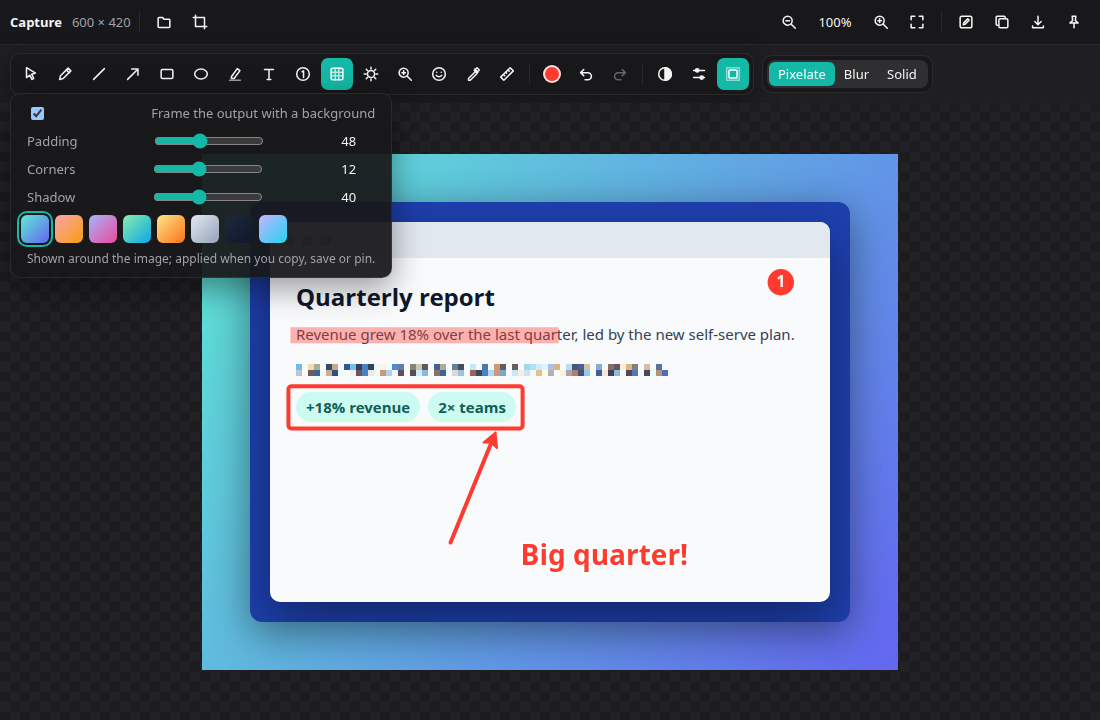
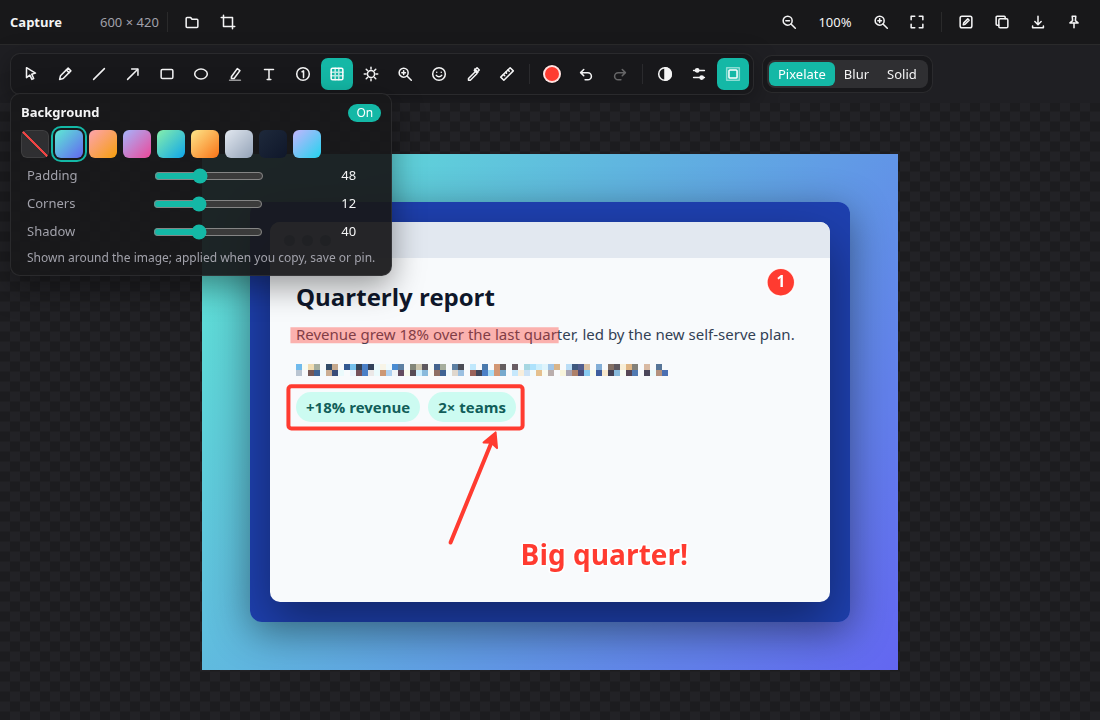
Screenshots: Beautify on and off, colour picker toast, narrowest editor

Changed region(s): [[0.0, 0.1222, 0.34, 0.3972], [0.0618, 0.0, 0.2164, 0.0611]]

diff --git a/tests/e2e/screenshots.spec.ts b/tests/e2e/screenshots.spec.ts
@@ -359,3 +359,82 @@ test('update window screenshot', async () => {
     await verifyAndClose(ctx);
   }
 });
+
+test('beautify, colour picker toast and narrow editor screenshots', async () => {
+  const ctx = await launch();
+  try {
+    await ctx.app.evaluate(
+      async (_e, dir) => {
+        await globalThis.__anyshot?.patch({
+          capture: { showThumbnail: false },
+          output: { saveDir: dir },
+        });
+      },
+      join(ctx.userData, 'shots'),
+    );
+    await showFixture(ctx.app);
+    await dispatch(ctx.app, 'captureArea');
+    const overlay = await pageOf(ctx.app, 'overlay');
+    await expect
+      .poll(() =>
+        ctx.app.evaluate(() =>
+          globalThis.__anyshot?.windows().some((w) => w.kind === 'overlay' && w.visible),
+        ),
+      )
+      .toBe(true);
+    await overlay.mouse.move(520, 120);
+    await overlay.mouse.down();
+    await overlay.mouse.move(1080, 500, { steps: 6 });
+    await overlay.mouse.up();
+    await pressClosing(overlay, 'Control+s');
+    await expect.poll(() => windowKinds(ctx.app)).toEqual([]);
+
+    // Edited from history, so the header has Replace and Done too: its widest form.
+    await dispatch(ctx.app, 'history');
+    const history = await pageOf(ctx.app, 'history');
+    const card = history.getByTestId('history-card').first();
+    await card.hover();
+    await card.getByRole('button', { name: 'Open in editor' }).click();
+    const editor = await pageOf(ctx.app, 'editor');
+    await pressClosing(history, 'Escape');
+    const resize = (width: number, height: number) =>
+      ctx.app.evaluate(
+        ({ BrowserWindow }, [width, height]) => {
+          for (const w of BrowserWindow.getAllWindows())
+            if (w.webContents.getURL().includes('/editor/')) w.setSize(width, height);
+        },
+        [width, height] as const,
+      );
+    await resize(1100, 720);
+    await editor.waitForTimeout(400);
+    await editor.keyboard.press('Control+1');
+
+    // Beautify while off: "No background" is chosen and the sliders wait for a background.
+    await editor.getByTestId('fx-beautify').click();
+    const popover = editor.getByTestId('beautify-popover');
+    await editor.waitForTimeout(200);
+    await editor.screenshot({ path: out('beautify-off.png') });
+    await popover.getByRole('button', { name: 'Background 4' }).click();
+    await expect(editor.locator('#frame')).toHaveClass(/beautified/);
+    await editor.waitForTimeout(300);
+    await editor.screenshot({ path: out('beautify-on.png') });
+    await popover.getByTestId('beautify-none').click();
+    await editor.keyboard.press('Escape');
+
+    // The colour picker says what it did.
+    await editor.getByTestId('tool-picker').click();
+    const chip = await editor.locator('#clip').boundingBox();
+    if (!chip) throw new Error('no canvas');
+    await editor.mouse.click(chip.x + chip.width * 0.12, chip.y + chip.height * 0.88);
+    await expect(editor.getByTestId('editor-status')).toContainText('Colour set to');
+    await editor.waitForTimeout(150);
+    await editor.screenshot({ path: out('picker-toast.png') });
+
+    // Asked to be far narrower, the window stops where the whole toolbar still fits.
+    await resize(420, 640);
+    await editor.waitForTimeout(500);
+    await editor.screenshot({ path: out('editor-narrow.png') });
+  } finally {
+    await verifyAndClose(ctx);
+  }
+});
